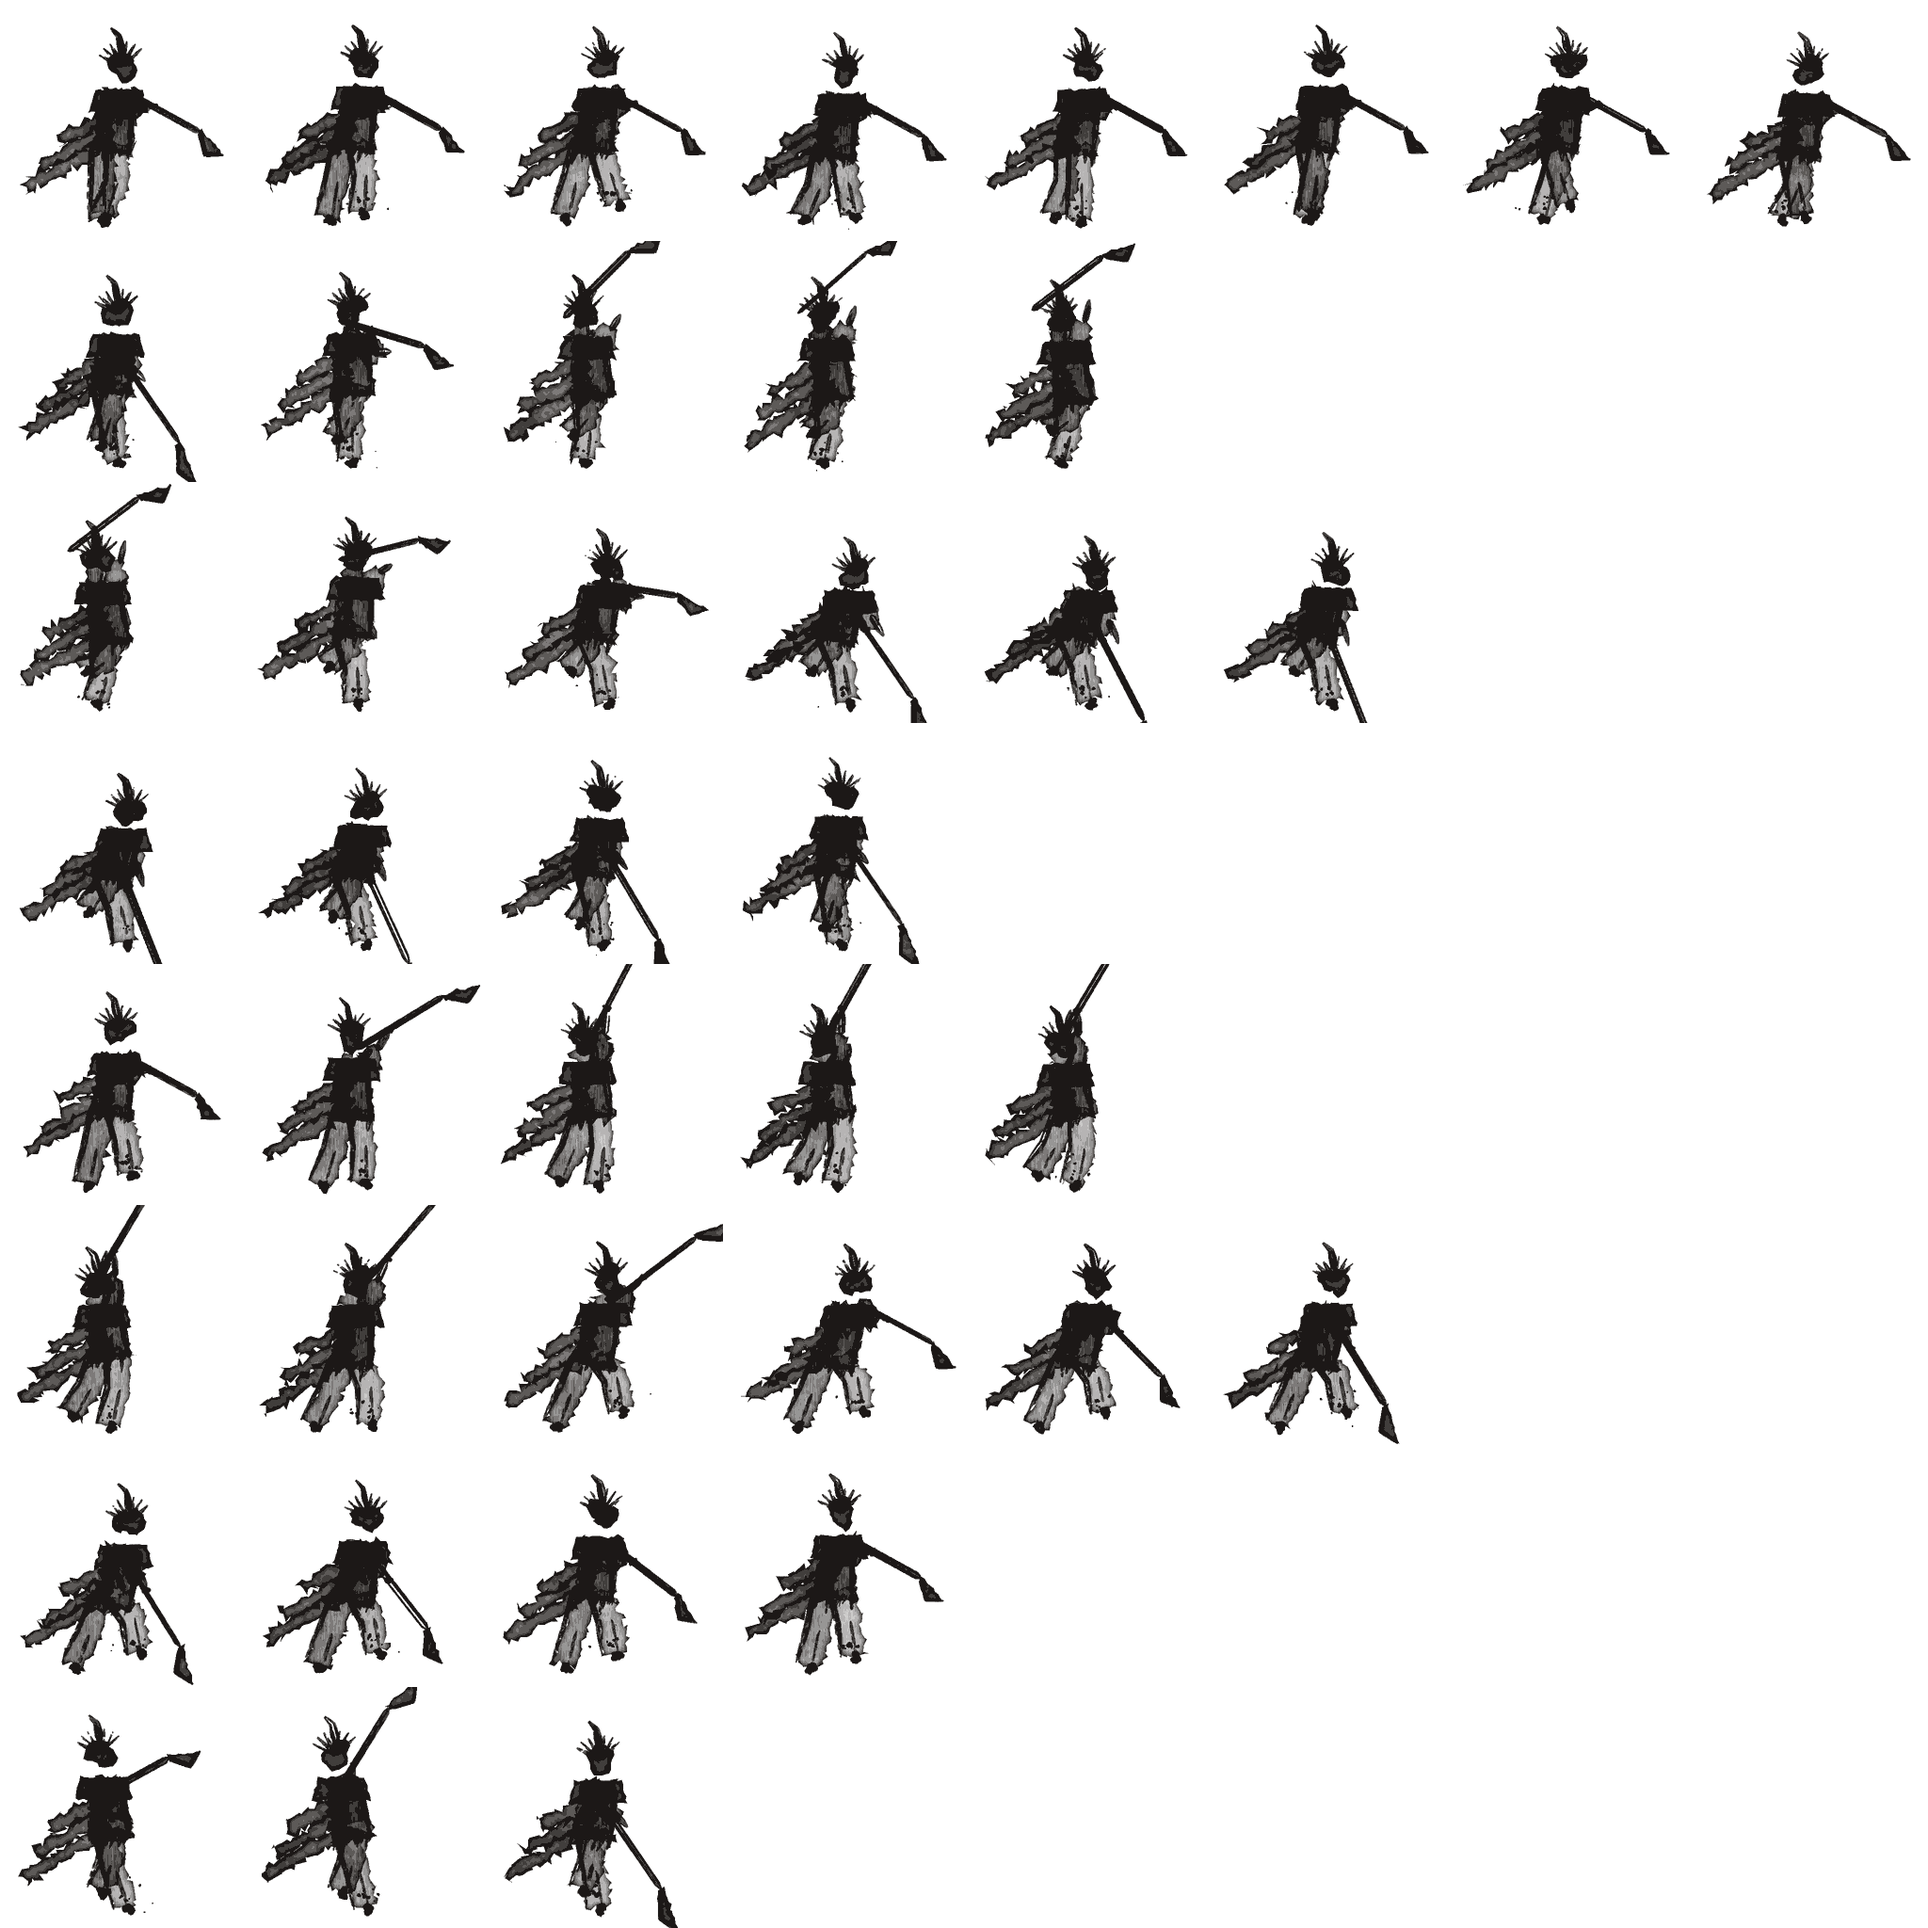
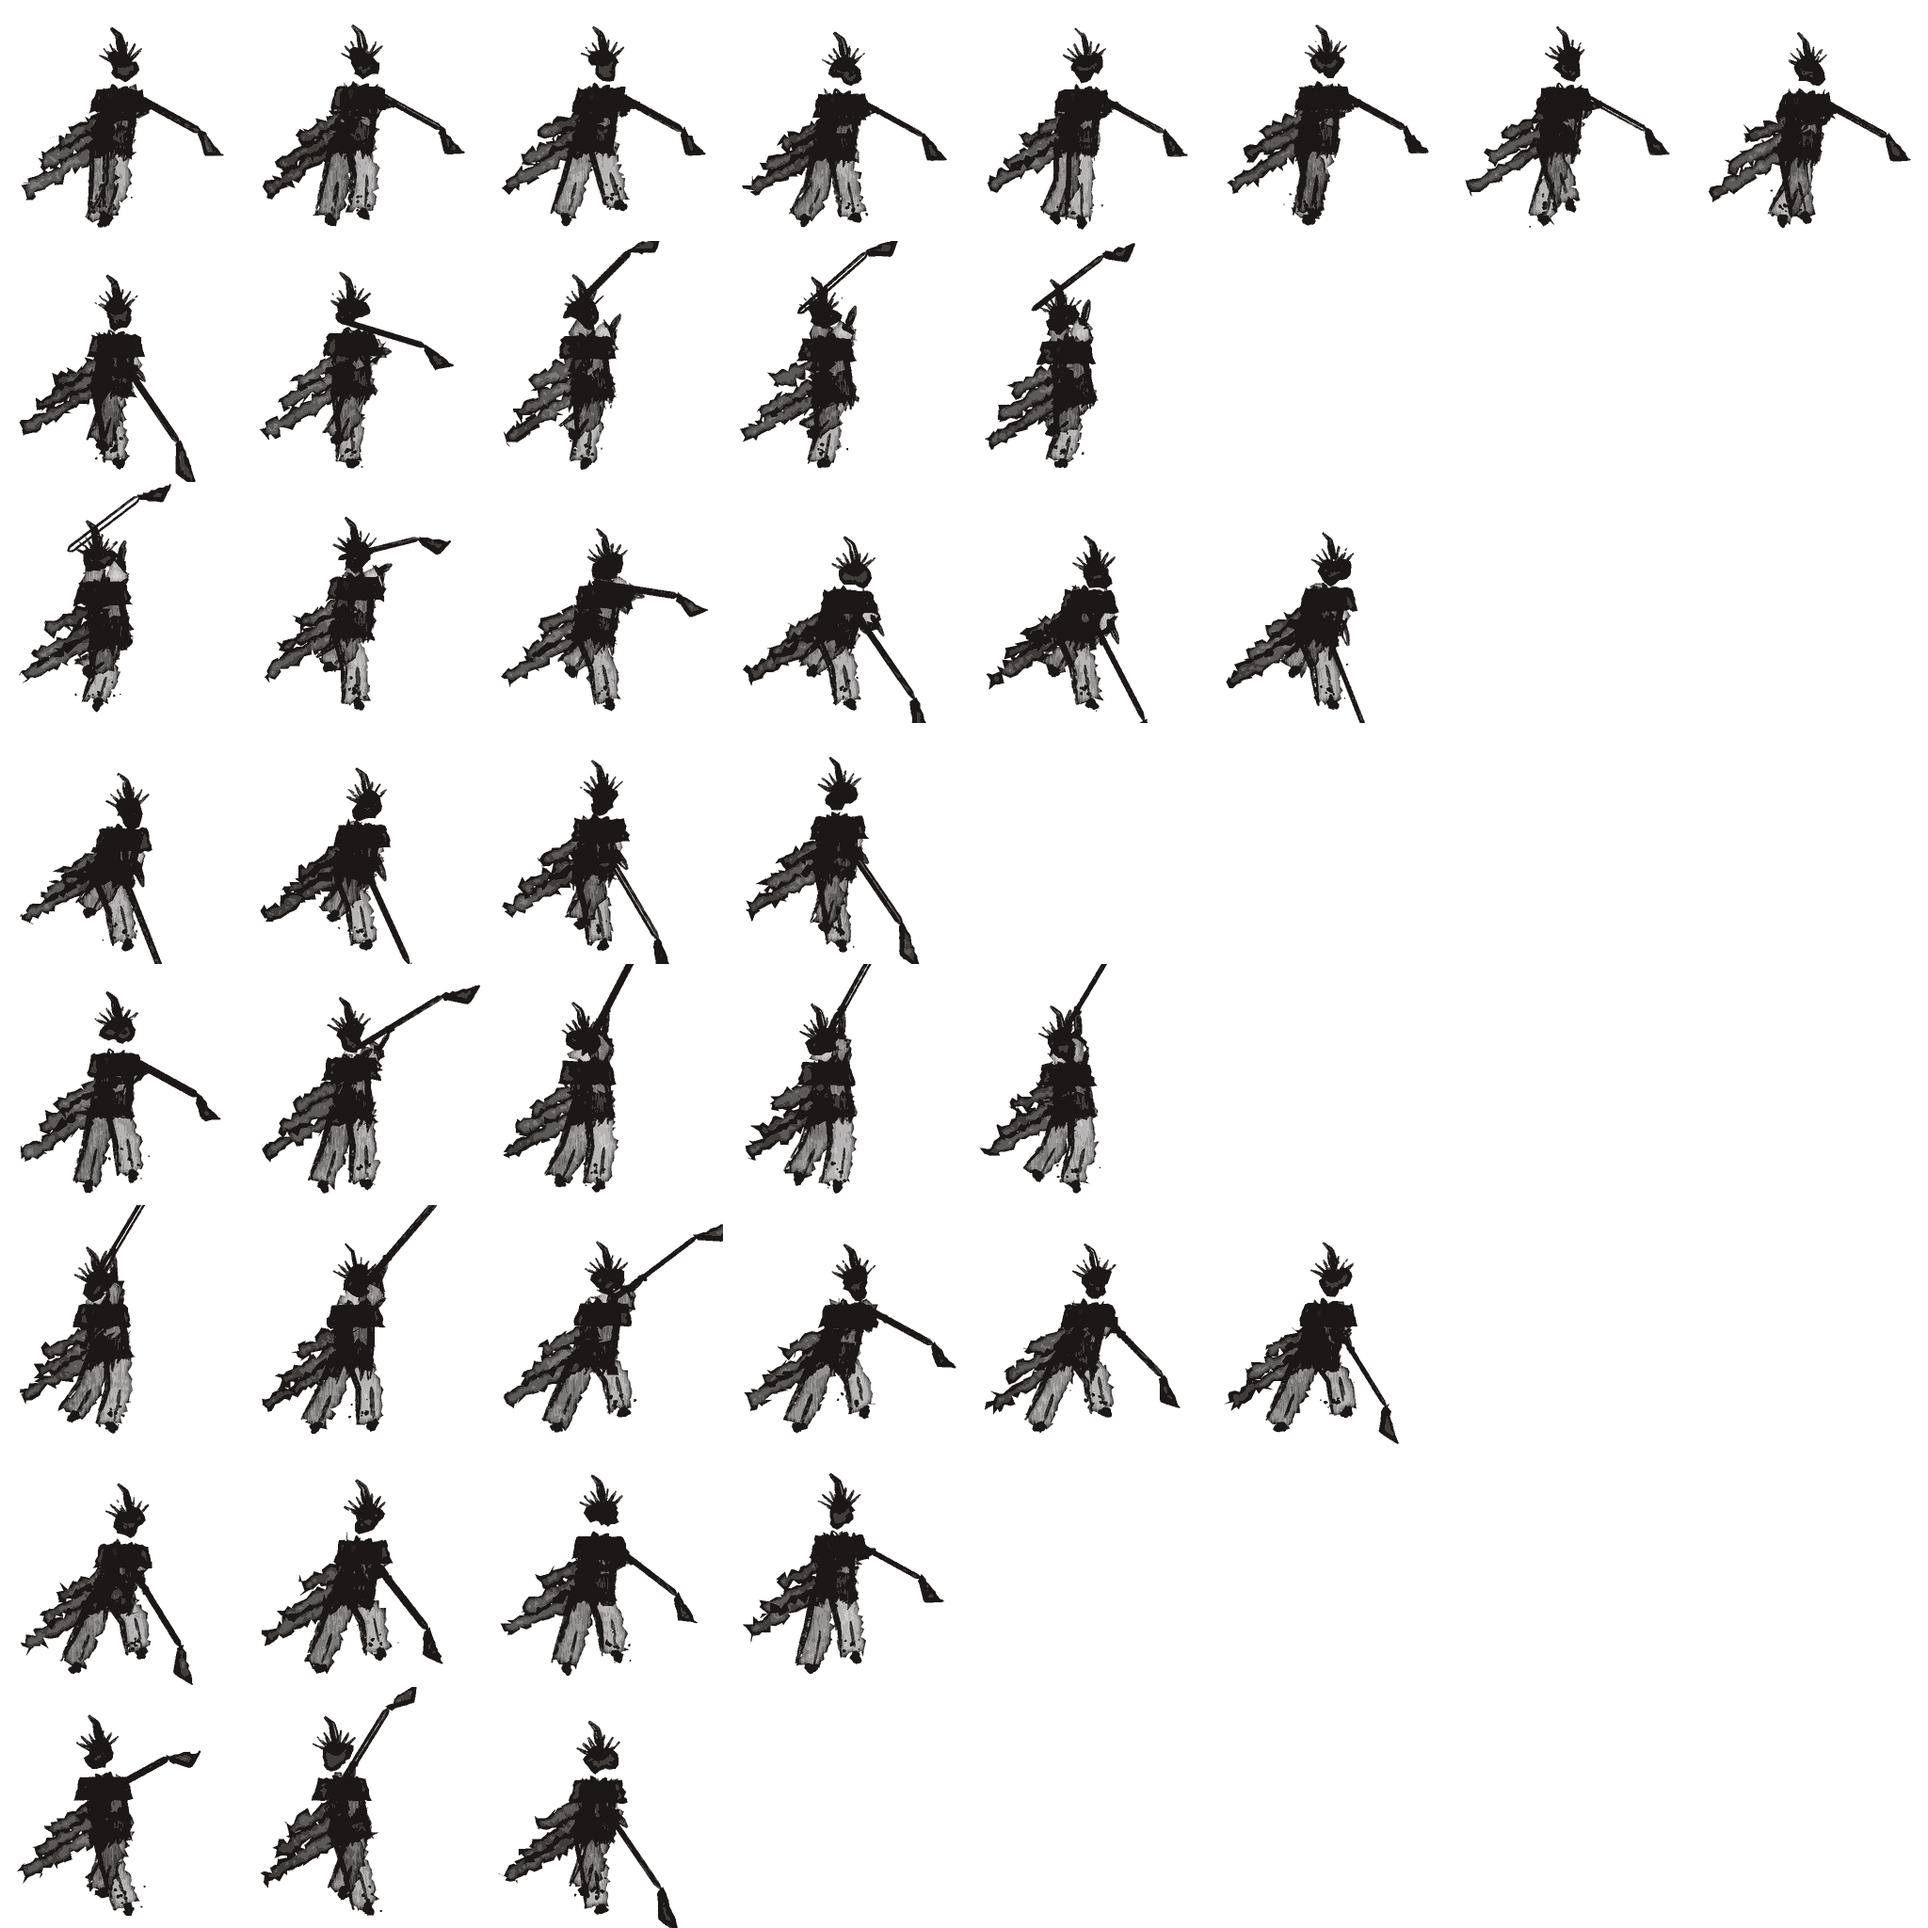
Godot take C36: ronin + variants ink-wash rebake - pale robes, bold hem/collar/cuff accents, paper highlights

diff --git a/godot/tools/figures.py b/godot/tools/figures.py
@@ -292,7 +292,13 @@ def draw_ronin(c, J, pose):
     hipL = J['hip'] + n * 19; hipR = J['hip'] - n * 19
     shL = J['sh'] + n * 17; shR = J['sh'] - n * 17
     body = [tuple(shL), tuple(shR), tuple(hipR - n * 3 + np.array([0, 10])), tuple(hipL + n * 4 + np.array([0, 12]))]
-    c.wash(body, dens=0.7, edge=0.35, rag=2.4, texture=0.55, streak_dir=1)
+    c.wash(body, dens=0.3, edge=0.4, rag=2.4, texture=0.65, streak_dir=1, grad=0.22)
+    # bold near-black accents: hem band + collar cross (the reference's graphic read)
+    c.wash([tuple(lerp(shL, hipL, 0.68)), tuple(lerp(shR, hipR, 0.68)), tuple(hipR - n * 3 + np.array([0, 10])), tuple(hipL + n * 4 + np.array([0, 12]))], dens=0.85, edge=0.3, rag=2.4, texture=0.55, streak_dir=1)
+    c.stroke([tuple(J['neck'] + n * 8), tuple(lerp(J['neck'], J['hip'], 0.5) - n * 6)], w=5.5, dry=0.5)
+    c.stroke([tuple(J['neck'] - n * 8), tuple(lerp(J['neck'], J['hip'], 0.45) + n * 6)], w=4.5, dry=0.55)
+    # dry paper highlight across the chest
+    c.stroke([tuple(lerp(J['sh'], J['chest'], 0.15) - n * 8), tuple(lerp(J['sh'], J['chest'], 0.85) - n * 7)], w=5.0, dry=0.85, taper=(0.15, 0.7), layer='fill')
     # tattered robe hem strokes
     for k in range(6):
         p0 = lerp(hipL, hipR, k / 5) + np.array([0, 6])
@@ -382,7 +388,9 @@ def draw_sleeve_dark(c, sh, el, hand, dens):
     drop = np.array([0, 1.0])
     p = perp(sh, el)
     poly = [tuple(sh + p * 9), tuple(el + p * 10 + drop * 12), tuple(lerp(el, hand, 0.4) + drop * 6), tuple(el - p * 9), tuple(sh - p * 9)]
-    c.wash(poly, dens=dens, edge=0.4, rag=2.0, texture=0.55, streak_dir=1)
+    c.wash(poly, dens=max(0.25, dens - 0.28), edge=0.4, rag=2.0, texture=0.6, streak_dir=1, grad=0.2)
+    # bold dark cuff accent
+    c.wash([tuple(el + p * 10 + drop * 12), tuple(lerp(el, hand, 0.4) + drop * 6), tuple(el - p * 9), tuple(el + p * 2 + drop * 7)], dens=0.85, edge=0.3, rag=2.0, texture=0.5, streak_dir=1)
     c.stroke([tuple(sh + p * 9), tuple(el + p * 10 + drop * 12)], w=3.6, dry=0.6)
     c.stroke([tuple(el), tuple(hand)], w=5, dry=0.4, ink=0.9)
 
